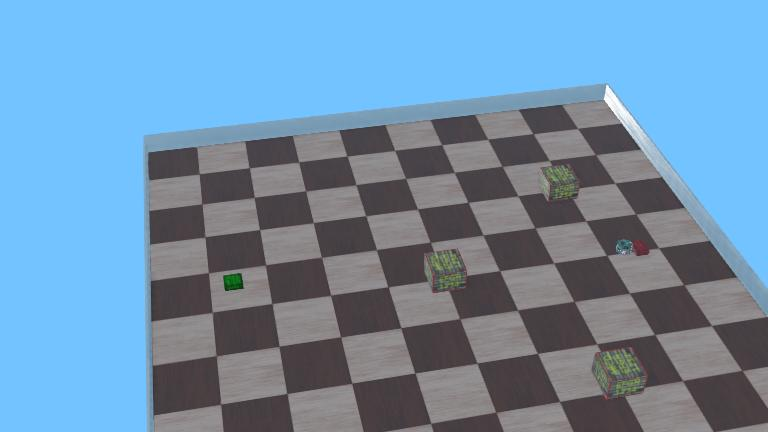
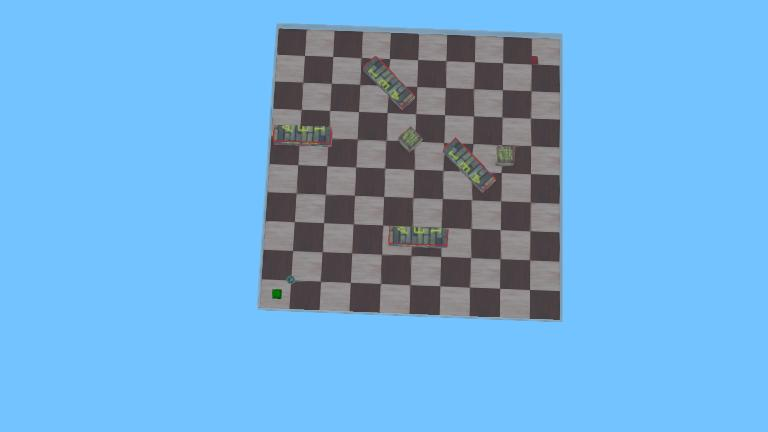
implemente simple scanario with automatization

diff --git a/controllers/robotito-controller/robotito-controller.py b/controllers/robotito-controller/robotito-controller.py
@@ -9,31 +9,48 @@ sys.path.insert(0, current_dir)
 import path_planning
 
 # =============================================================================
-# CONTROLADOR E-PUCK V2 — ODOMETRIA + EVITAMENTO CON RICALCOLO E STAMPA MAPPA
+# CONTROLADOR E-PUCK V2 — AUTODETECTION SCENARIO + EVITAMENTO + STATISTICHE
 # =============================================================================
 
 SCENARIOS = {
     "semplice": {
-        "wbt_name": "semplice",
         "start":    (-1.0,  0.0),
         "goal":     ( 1.0,  0.0),
     },
     "complejo": {
-        "wbt_name": "complejo",
         "start":    (-1.0, -1.0),
         "goal":     ( 1.0,  1.0),
     },
 }
 
-scenario_key = sys.argv[1] if len(sys.argv) > 1 else "complejo"
-if scenario_key not in SCENARIOS:
-    print(f"[WARN] Scenario '{scenario_key}' non trovato. Uso 'complejo'.")
+robot    = Robot()
+timestep = int(robot.getBasicTimeStep())
+
+# -----------------------------------------------------------------------------
+# RILEVAMENTO DINAMICO DELLO SCENARIO
+# -----------------------------------------------------------------------------
+try:
+    wbt_path = robot.getWorldPath()
+except AttributeError:
+    # Fallback super-sicuro se l'API non è supportata
+    import glob
+    worlds_dir = os.path.abspath(os.path.join(current_dir, '..', '..', 'worlds'))
+    wbts = glob.glob(os.path.join(worlds_dir, '*.wbt'))
+    wbt_path = max(wbts, key=os.path.getmtime) if wbts else ""
+
+wbt_filename = os.path.basename(wbt_path).lower()
+
+if "semplice" in wbt_filename:
+    scenario_key = "semplice"
+else:
     scenario_key = "complejo"
 
-cfg       = SCENARIOS[scenario_key]
-ESCENARIO = cfg["wbt_name"]
-START     = cfg["start"]
-GOAL      = cfg["goal"]
+print(f"\n[SISTEMA] Rilevato file in esecuzione: {wbt_filename}")
+print(f"[SISTEMA] Avvio Controller — Impostato scenario: {scenario_key.upper()}\n")
+
+cfg   = SCENARIOS[scenario_key]
+START = cfg["start"]
+GOAL  = cfg["goal"]
 
 WHEEL_RADIUS  = 0.0205
 AXLE_LENGTH   = 0.057
@@ -48,19 +65,17 @@ WAYPOINT_REACHED   = 0.07
 GOAL_TOL           = 0.08
 TURN_IN_PLACE_ANGLE = math.radians(45)
 
-IR_DANGER_THRESHOLD  = 150   
+IR_DANGER_THRESHOLD  = 100
 
-# FIX: Angoli rad esatti del modello fisico E-puck in Webots
-# (Negativi = Lato Destro, Positivi = Lato Sinistro)
 PS_ANGLES = [
-     -0.2967, # ps0 (approx -17°)
-     -0.8726, # ps1 (approx -50°)
-     -1.5708, # ps2 (approx -90°)
-     -2.6179, # ps3 (approx -150°)
-      2.6179, # ps4 (approx +150°)
-      1.5708, # ps5 (approx +90°)
-      0.8726, # ps6 (approx +50°)
-      0.2967  # ps7 (approx +17°)
+     -0.2967, # ps0
+     -0.8726, # ps1
+     -1.5708, # ps2
+     -2.6179, # ps3
+      2.6179, # ps4
+      1.5708, # ps5
+      0.8726, # ps6
+      0.2967  # ps7
 ]
 
 class KalmanIR:
@@ -126,11 +141,8 @@ def check_obstacle(filtered_ir):
     return danger, trigger_idx
 
 # =============================================================================
-# INIZIALIZZAZIONE DISPOSITIVI
+# SETUP DEI DEVICE
 # =============================================================================
-robot    = Robot()
-timestep = int(robot.getBasicTimeStep())
-
 left_motor  = robot.getDevice("left wheel motor")
 right_motor = robot.getDevice("right wheel motor")
 left_motor.setPosition(float("inf"))
@@ -150,13 +162,11 @@ right_encoder.enable(timestep)
 
 kalman_filters = [KalmanIR(q=1.0, r=50.0) for _ in range(8)]
 
-print(f"[SISTEMA] Avvio Controller — scenario: {scenario_key}")
-
-grid_map = path_planning.create_map_from_wbt(ESCENARIO)
+grid_map = path_planning.create_map_from_wbt(wbt_path)
 
 waypoints, planned_length, raw_route = plan_route(grid_map, START, GOAL)
 
-print("\n[MAPPA] --- VISUALIZZAZIONE ROTTA INIZIALE ---")
+print("[MAPPA] --- VISUALIZZAZIONE ROTTA INIZIALE ---")
 path_planning.visualize_path(grid_map, raw_route)
 print("--------------------------------------------\n")
 
@@ -168,13 +178,15 @@ prev_right = right_encoder.getValue()
 
 x_est, y_est, theta_est = START[0], START[1], 0.0
 
-# Variabili FSM e Retromarcia
 STATE_TRACKING = 0
 STATE_REVERSING = 1
 state = STATE_TRACKING
 reverse_start_x = 0.0
 reverse_start_y = 0.0
 REVERSE_DIST_TARGET = 0.06 
+
+actual_distance_traveled = 0.0
+detected_obstacles = []
 
 # =============================================================================
 # LOOP PRINCIPALE
@@ -190,13 +202,25 @@ while robot.step(timestep) != -1:
     dr = (cur_right - prev_right) * WHEEL_RADIUS
     prev_left, prev_right = cur_left, cur_right
 
+    v_dt = (dr + dl) / 2.0
+    actual_distance_traveled += abs(v_dt)
+
     x_est, y_est, theta_est = update_odometry(x_est, y_est, theta_est, dl, dr)
 
     dist_goal = math.hypot(GOAL[0] - x_est, GOAL[1] - y_est)
+    
     if dist_goal < GOAL_TOL:
         left_motor.setVelocity(0.0)
         right_motor.setVelocity(0.0)
-        print(f"[OK] Meta raggiunta con successo in pos=({x_est:.3f},{y_est:.3f})")
+        
+        print(f"\n[OK] Meta raggiunta con successo in pos=({x_est:.3f}, {y_est:.3f})")
+        print("\n==================================================")
+        print("[STATISTICHE FINALI]")
+        print(f"Lunghezza totale del percorso (incl. manovre): {actual_distance_traveled:.3f} m")
+        print(f"Numero di ostacoli imprevisti incontrati: {len(detected_obstacles)}")
+        for i, obs in enumerate(detected_obstacles):
+            print(f"  - Ostacolo {i+1} registrato in: ({obs[0]:.3f}, {obs[1]:.3f})")
+        print("==================================================\n")
         break
 
     if state == STATE_TRACKING:
@@ -210,18 +234,15 @@ while robot.step(timestep) != -1:
             left_motor.setVelocity(0.0)
             right_motor.setVelocity(0.0)
             
-            # FIX: Calcolo dinamico della distanza in base alla lettura del sensore
-            # L'E-puck ha raggio 0.035m. 
-            # A 1500 IR, l'ostacolo è quasi attaccato -> ~0.04m dal centro
-            # A 250 IR (soglia), l'ostacolo è a ~3cm dal bordo -> ~0.065m dal centro
             obs_dist = 0.035 + (0.03 * (1.0 - min(val, 1500) / 1500.0))
-            
             obs_angle = norm_angle(theta_est + PS_ANGLES[trigger_idx])
             obs_x = x_est + obs_dist * math.cos(obs_angle) 
             obs_y = y_est + obs_dist * math.sin(obs_angle)
             
             path_planning.add_dynamic_obstacle(grid_map, obs_x, obs_y, radius_m=0.015)
             print(f"[MAPPA] Ostacolo dinamico posizionato a {obs_dist:.3f}m dal centro robot in ({obs_x:.2f}, {obs_y:.2f}).")
+            
+            detected_obstacles.append((obs_x, obs_y))
             
             state = STATE_REVERSING
             reverse_start_x = x_est

diff --git a/controllers/robotito-controller/path_planning.py b/controllers/robotito-controller/path_planning.py
@@ -5,7 +5,7 @@ import re
 from collections import deque
 
 # =============================================================================
-# MODULO PATH PLANNING (A* con Gradiente di Costo per navigazione a centro corridoio)
+# MODULO PATH PLANNING (Parsing dinamico del file mondo)
 # =============================================================================
 
 GRID_SIZE = 100
@@ -13,9 +13,6 @@ CELL_SIZE = 0.025
 ARENA_OFFSET = 1.25
 
 ROBOT_RADIUS_CELLS = 4 
-
-# MODIFICA: Ampliato il raggio di sicurezza e attivato il peso di penalità 
-# per generare un campo repulsivo che spinge la rotta verso il centro.
 SAFETY_RADIUS_CELLS = 8
 PENALTY_WEIGHT = 3.0
 
@@ -55,7 +52,6 @@ def add_rotated_box_to_grid(grid, cx, cy, w, h, theta):
                     grid[r][c] = 1
 
 def add_dynamic_obstacle(grid, x, y, radius_m=0.015):
-    """Aggiunge un ostacolo imprevisto con raggio personalizzato."""
     r_center, c_center = world_to_grid(x, y)
     rad_cells = int(math.ceil(radius_m / CELL_SIZE))
     for r in range(r_center - rad_cells, r_center + rad_cells + 1):
@@ -70,23 +66,11 @@ def add_arena_boundaries(grid, thickness=3):
             if r < thickness or r >= GRID_SIZE - thickness or c < thickness or c >= GRID_SIZE - thickness:
                 grid[r][c] = 1
 
-def create_map_from_wbt(scenario_name):
+def create_map_from_wbt(wbt_path):
     grid = [[0] * GRID_SIZE for _ in range(GRID_SIZE)]
     
-    here = os.path.dirname(os.path.abspath(__file__))
-    candidates = [
-        os.path.abspath(os.path.join(here, '..', '..', 'worlds', f'escenario_{scenario_name}.wbt')),
-        os.path.abspath(os.path.join(here, '..', '..', 'worlds', f'{scenario_name}.wbt')),
-        os.path.abspath(os.path.join(os.getcwd(), '..', '..', 'worlds', f'escenario_{scenario_name}.wbt'))
-    ]
-    
-    wbt_path = None
-    for candidate in candidates:
-        if os.path.exists(candidate):
-            wbt_path = candidate
-            break
-
-    if wbt_path is None:
+    if not wbt_path or not os.path.exists(wbt_path):
+        print(f"[WARN] Impossibile trovare il file mondo: {wbt_path}")
         add_arena_boundaries(grid)
         return grid
 
@@ -185,15 +169,12 @@ def a_star(grid, start, goal, robot_radius=ROBOT_RADIUS_CELLS):
             
             d_wall = dist_map[nr][nc]
             
-            # Limite rigido: spazio occupato o troppo vicino al muro
             if d_wall <= robot_radius: continue
 
             step = 1.4142 if dr != 0 and dc != 0 else 1.0
             
-            # MODIFICA: Implementazione del potenziale repulsivo
             penalty = 0.0 
             if d_wall < robot_radius + SAFETY_RADIUS_CELLS:
-                # Applica una penalità lineare che diminuisce man mano che ci si allontana dal muro
                 penalty = (robot_radius + SAFETY_RADIUS_CELLS - d_wall) * PENALTY_WEIGHT
 
             ng = g + step + penalty
